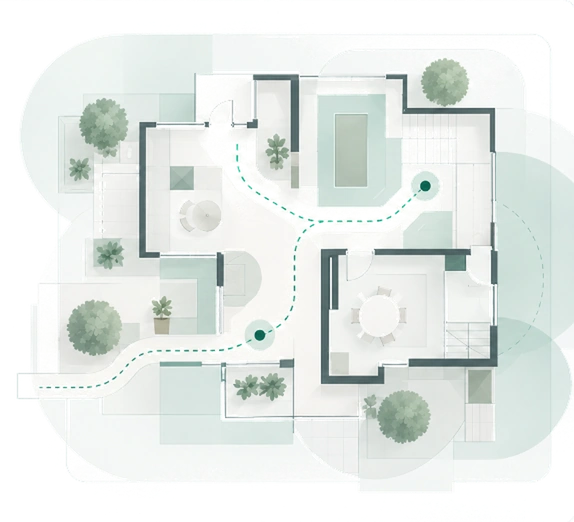
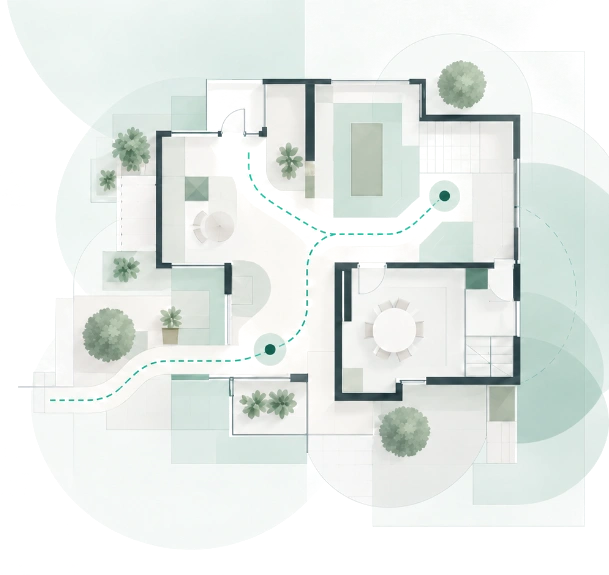
fix(landing): remove outer card box and match full-bleed reference design exactly

diff --git a/src/app/page.tsx b/src/app/page.tsx
@@ -3,43 +3,53 @@ import Image from "next/image";
 import { ArrowRight } from "lucide-react";
 import { BrandMark } from "@/components/brand/brand-mark";
 import abstractFloorplan from "../../public/landing/abstract-floorplan@2x.png";
+import decorArc from "../../public/landing/decor-arc-bottom-left.png";
 
 export default function HomePage() {
   return (
-    <div className="min-h-screen bg-[#F7F8F8] text-[#17252B] flex items-center justify-center p-3 sm:p-6 lg:p-10">
-      <main
-        id="main-content"
-        className="relative w-full max-w-[1240px] rounded-[24px] sm:rounded-[32px] border border-[#E2E6E8] bg-white p-6 sm:p-8 lg:p-10 xl:p-12 shadow-xs"
-        role="main"
-      >
-        {/* Brand Logo & Wordmark - Top Left */}
-        <div className="flex items-center">
+    <div className="relative min-h-screen w-full bg-white text-[#17252B] overflow-x-hidden flex flex-col justify-between">
+      {/* Decorative ambient bottom-left architectural arc */}
+      <div className="pointer-events-none absolute bottom-0 left-0 w-[220px] sm:w-[300px] select-none z-0">
+        <Image
+          src={decorArc}
+          alt=""
+          priority
+          className="w-full h-auto object-contain"
+        />
+      </div>
+
+      {/* Top Header with Brand Logo */}
+      <header className="w-full px-6 pt-8 sm:px-12 sm:pt-10 lg:px-16 lg:pt-12 z-20">
+        <div className="max-w-7xl mx-auto flex items-center">
           <Link
             href="/"
             aria-label="SafeSpace home"
             className="inline-flex items-center rounded-md focus-visible:outline-2 focus-visible:outline-offset-2 focus-visible:outline-[#0B514B]"
           >
             <span className="sr-only">SafeSpace</span>
-            <BrandMark height={32} />
+            <BrandMark height={34} />
           </Link>
         </div>
+      </header>
 
-        {/* Hero Section */}
-        <section
-          aria-labelledby="hero-title"
-          className="mt-6 sm:mt-8 lg:mt-8 xl:mt-10 grid grid-cols-1 items-center gap-8 lg:grid-cols-12 lg:gap-8 xl:gap-12"
-        >
-          {/* Left Hero Content: Headline, Description & Single CTA */}
-          <div className="lg:col-span-6 xl:col-span-5 flex flex-col items-start z-10">
+      {/* Main Hero Section */}
+      <main
+        id="main-content"
+        className="w-full flex-1 flex items-center px-6 sm:px-12 lg:px-16 py-6 sm:py-10 z-10"
+        role="main"
+      >
+        <div className="w-full max-w-7xl mx-auto grid grid-cols-1 items-center gap-10 lg:grid-cols-12 lg:gap-8">
+          {/* Left Column: Headline, Description & Single Primary CTA */}
+          <div className="lg:col-span-5 flex flex-col items-start z-10">
             <h1
               id="hero-title"
-              className="text-3xl sm:text-5xl lg:text-4xl xl:text-[54px] font-bold tracking-tight leading-[1.08]"
+              className="text-4xl sm:text-5xl lg:text-6xl font-bold tracking-tight leading-[1.08]"
             >
               <span className="block text-[#17252B]">Design safer</span>
               <span className="block text-[#0B514B] mt-1 whitespace-nowrap">movement paths</span>
             </h1>
 
-            <p className="mt-5 sm:mt-6 text-base sm:text-lg leading-relaxed text-[#647078] max-w-[440px]">
+            <p className="mt-6 text-base sm:text-lg leading-relaxed text-[#647078] max-w-md">
               Review floorplans for accessibility and safety with clear, actionable spatial insight.
             </p>
 
@@ -47,7 +57,7 @@ export default function HomePage() {
             <div className="mt-8 sm:mt-10">
               <Link
                 href="/assessments/new"
-                className="inline-flex items-center gap-2.5 rounded-xl bg-[#0B514B] px-6 py-3.5 text-base font-semibold text-white shadow-xs hover:bg-[#073D38] transition-colors focus-visible:outline-2 focus-visible:outline-offset-2 focus-visible:outline-[#0B514B]"
+                className="inline-flex items-center gap-2.5 rounded-xl bg-[#0B514B] px-7 py-3.5 text-base font-semibold text-white shadow-xs hover:bg-[#073D38] transition-colors focus-visible:outline-2 focus-visible:outline-offset-2 focus-visible:outline-[#0B514B]"
               >
                 <span>Start assessment</span>
                 <ArrowRight size={18} strokeWidth={2.2} aria-hidden="true" />
@@ -55,21 +65,24 @@ export default function HomePage() {
             </div>
           </div>
 
-          {/* Right Hero Preview: Abstract Architectural Floorplan Illustration */}
-          <div className="lg:col-span-6 xl:col-span-7 flex items-center justify-center lg:justify-end">
-            <div className="relative w-full max-w-[580px] lg:max-w-none">
+          {/* Right Column: Abstract Architectural Floorplan Illustration */}
+          <div className="lg:col-span-7 flex items-center justify-center lg:justify-end">
+            <div className="relative w-full max-w-[640px] lg:max-w-none">
               <Image
                 src={abstractFloorplan}
                 alt="Abstract architectural floorplan illustration with movement paths"
                 priority
                 quality={95}
-                sizes="(max-width: 768px) 100vw, (max-width: 1200px) 58vw, 680px"
+                sizes="(max-width: 768px) 100vw, (max-width: 1200px) 58vw, 740px"
                 className="w-full h-auto object-contain select-none pointer-events-none"
               />
             </div>
           </div>
-        </section>
+        </div>
       </main>
+
+      {/* Subtle bottom spacing buffer to balance composition */}
+      <div className="h-6 sm:h-10 lg:h-12 pointer-events-none" />
     </div>
   );
 }
